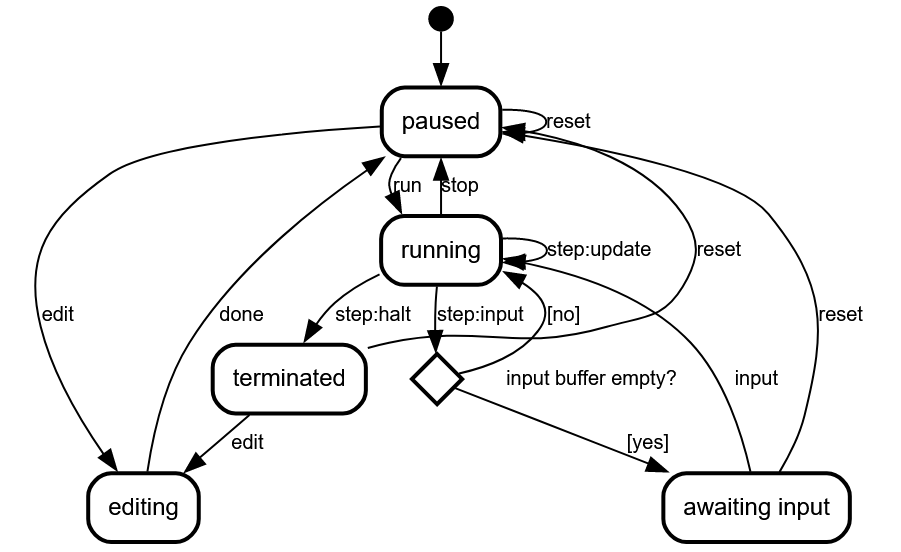
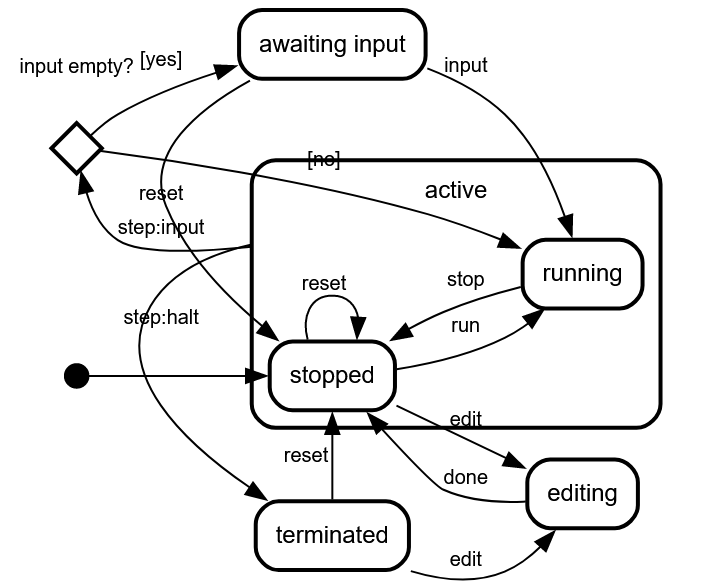
Implement waiting for input in the WaitingForInput state.

diff --git a/src/components/MainStage.tsx b/src/components/MainStage.tsx
@@ -24,10 +24,16 @@ export function MainStage(props: MainStageProps) {
   };
 
   const onInputChange = function(ev: ChangeEvent<HTMLInputElement>) {
-    setState((state: State) => ({
-      ...state,
-      inputBuffer: ev.target.value
-    }));
+    setState((state: State) => {
+        if (state.status === 'WaitingForInput') {
+          // FIXME: what if it wasn't previously running?
+          props.commands.run.enact(state, setState);
+        }
+        return {
+        ...state,
+        inputBuffer: ev.target.value
+      }
+    });
   };
 
   return (
@@ -53,7 +59,17 @@ export function MainStage(props: MainStageProps) {
 }
 
 export function StatusIndicator(props: any) {
-  return <span style={{margin: "1em", color: "yellowgreen"}}>{ props.status }</span>
+  let statusText = props.status;
+  if (statusText === "WaitingForInput") { statusText = "Waiting for Input"; }
+  let statusColor = "orange";
+  if (props.status === 'Stopped') {
+    statusColor = "grey";
+  } else if (props.status === 'Running') {
+    statusColor = "green";
+  } else if (props.status === 'Terminated') {
+    statusColor = "red";
+  }
+  return <span style={{margin: "1em", color: statusColor, minWidth: "10em", display: "inline-block"}}>{ statusText }</span>
 }
 
 function InputArea(props: any) {

diff --git a/src/commands/ControlCommand.ts b/src/commands/ControlCommand.ts
@@ -130,6 +130,14 @@ export class RunCommand extends ControlCommand {
   name = "run";
 
   isPossible(state: State): boolean {
+    return state.status === 'Stopped' || state.status === 'WaitingForInput';
+  }
+
+  isAvailableToUser(state: State): boolean {
+    /*
+     * Even though it is possible to `run` in the 'WaitingForInput' state, the
+     * `run` command is not available to the user in that state.
+     */
     return state.status === 'Stopped';
   }
 
@@ -172,7 +180,7 @@ export class ResetCommand extends ControlCommand {
   name = "reset";
 
   isPossible(state: State): boolean {
-    return state.status === 'Stopped' || state.status === 'Terminated';
+    return state.status === 'Stopped' || state.status === 'Terminated' || state.status === 'WaitingForInput';
   }
 
   transformer(state: State): State {

diff --git a/src/App.tsx b/src/App.tsx
@@ -17,7 +17,7 @@ interface SemanticsContainerProps {
 
 function SemanticsContainer(props: SemanticsContainerProps) {
   const commands = createCommandsFromSemantics(props.semantics);
-  const programText = 'THUSNESS';
+  const programText = 'THUSINESS';
   const [state, setState] = initializeStore(programText, props.semantics.load(programText));
 
   React.useEffect(() => {

diff --git a/README.md b/README.md
@@ -64,11 +64,6 @@ of these, see the [Architecture](doc/Architecture.md) document.
 
 ### TODO
 
-#### Input
-
-*   Work out how waiting for input will work.
-*   Input control that provides input.
-
 #### Playfields
 
 *   Load multi-line string into Playfield.
@@ -85,6 +80,9 @@ of these, see the [Architecture](doc/Architecture.md) document.
 
 #### Other
 
+*   Deal with pausing for input when it wasn't previously running
+*   Document better how Commands work and what it means to `enact` them
+    (highlighting the places where this is done in the codebase.)
 *   Tape Configuration.
 *   Configurations can have id's (for access), titles (for display).
 *   Convert other configurations to use Immutable.js data structures.
